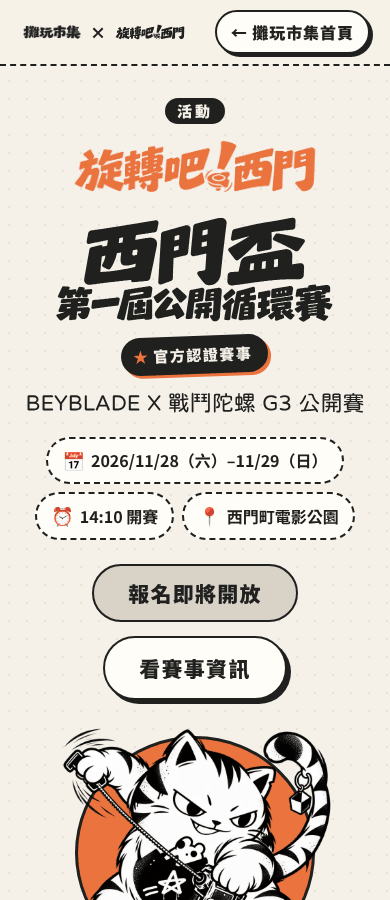
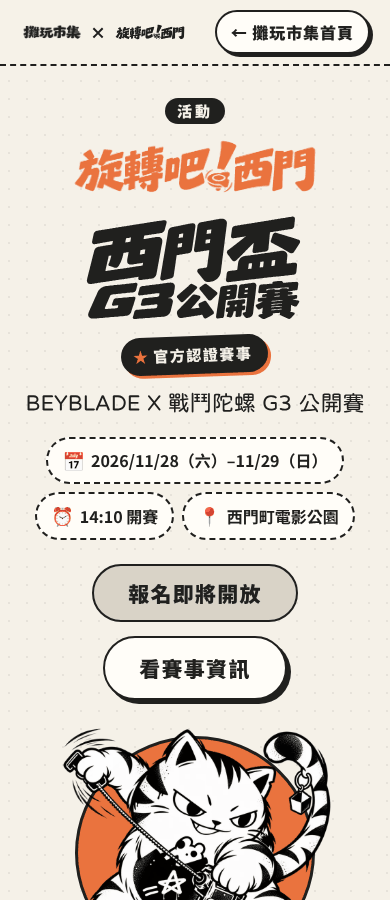
西門盃改用 G3／G2 新字卡，全站移除「第一屆公開循環賽」
- /cup/ 主視覺換 ximen-cup-g3-black，首頁橫幅換 ximen-cup-g3-white
- 每月賽事 G3／G2 卡片改放白色 G3／G2 字卡
- title、meta、og、twitter 文字改「西門盃 G3 公開賽」，og-cup.png 重做
- 更新 1440／390 截圖；舊 ximen-cup-* 檔案保留，CNAME 未動

Claude-Session: https://claude.ai/code/session_012dQHuckgmktwtxDEBvdD1o

Changed region(s): [[0.1538, 0.2178, 0.8615, 0.3733], [0.2154, 0.9956, 0.2462, 1.0]]

diff --git a/cup/index.html b/cup/index.html
@@ -4,8 +4,8 @@
   <meta charset="utf-8">
   <meta name="viewport" content="width=device-width, initial-scale=1">
 
-  <title>旋轉吧！西門｜西門盃 第一屆公開循環賽 BEYBLADE X 戰鬥陀螺 G3 公開賽 11/28（六）–11/29（日）｜攤玩市集</title>
-  <meta name="description" content="旋轉吧！西門｜西門盃 第一屆公開循環賽（G3 官方認證賽事），2026/11/28（六）–11/29（日）在西門町電影公園舉行。週六通常組（6–12 歲）、週日公開組（12 歲以上），每天 64 人，報名費每人 NT$200，觀賽免費。報名即將開放。每個週末舉辦 G3、每月一個週末舉辦 G2 官方認證賽事。">
+  <title>旋轉吧！西門｜西門盃 G3 公開賽 BEYBLADE X 戰鬥陀螺 11/28（六）–11/29（日）｜攤玩市集</title>
+  <meta name="description" content="旋轉吧！西門｜西門盃 G3 公開賽（G3 官方認證賽事），2026/11/28（六）–11/29（日）在西門町電影公園舉行。週六通常組（6–12 歲）、週日公開組（12 歲以上），每天 64 人，報名費每人 NT$200，觀賽免費。報名即將開放。每個週末舉辦 G3、每月一個週末舉辦 G2 官方認證賽事。">
   <meta name="theme-color" content="#F5F1E8">
   <link rel="canonical" href="https://tanwanmarket.com/cup/">
 
@@ -13,15 +13,15 @@
   <meta property="og:type" content="website">
   <meta property="og:locale" content="zh_TW">
   <meta property="og:site_name" content="攤玩市集">
-  <meta property="og:title" content="旋轉吧！西門｜西門盃 第一屆公開循環賽 BEYBLADE X 戰鬥陀螺 G3 公開賽">
+  <meta property="og:title" content="旋轉吧！西門｜西門盃 G3 公開賽 BEYBLADE X 戰鬥陀螺">
   <meta property="og:description" content="2026/11/28（六）–11/29（日）西門町電影公園｜G3 官方認證賽事，週六通常組、週日公開組各 64 人，觀賽免費。報名即將開放。">
   <meta property="og:url" content="https://tanwanmarket.com/cup/">
   <meta property="og:image" content="https://tanwanmarket.com/assets/cup/og-cup.png">
   <meta property="og:image:width" content="1200">
   <meta property="og:image:height" content="630">
-  <meta property="og:image:alt" content="旋轉吧！西門字標、西門盃 第一屆公開循環賽字卡與發射戰鬥陀螺的攤玩貓">
+  <meta property="og:image:alt" content="旋轉吧！西門字標、西門盃 G3 公開賽字卡與發射戰鬥陀螺的攤玩貓">
   <meta name="twitter:card" content="summary_large_image">
-  <meta name="twitter:title" content="旋轉吧！西門｜西門盃 第一屆公開循環賽 BEYBLADE X 戰鬥陀螺 G3 公開賽">
+  <meta name="twitter:title" content="旋轉吧！西門｜西門盃 G3 公開賽 BEYBLADE X 戰鬥陀螺">
   <meta name="twitter:description" content="2026/11/28（六）–11/29（日）西門町電影公園｜G3 官方認證賽事，報名即將開放。">
   <meta name="twitter:image" content="https://tanwanmarket.com/assets/cup/og-cup.png">
 
@@ -72,8 +72,8 @@
           </div>
           <h1 class="cup-title">
             <picture>
-              <source srcset="../assets/cup/ximen-cup-black.svg" type="image/svg+xml">
-              <img src="../assets/cup/ximen-cup-black.webp" alt="西門盃 第一屆公開循環賽" width="1200" height="400" fetchpriority="high">
+              <source srcset="../assets/cup/ximen-cup-g3-black.svg" type="image/svg+xml">
+              <img src="../assets/cup/ximen-cup-g3-black.webp" alt="西門盃 G3 公開賽" width="1200" height="400" fetchpriority="high">
             </picture>
           </h1>
           <p class="cup-badge">官方認證賽事</p>
@@ -243,8 +243,8 @@
           <article class="cup-card cup-monthly-main">
             <p>「旋轉吧！西門」系列賽事每個月都在西門町電影公園舉辦，<span class="nobr">比賽日在週六、週日</span>（攤玩市集每週五、六、日營業）。</p>
             <ul class="cup-monthly-types">
-              <li><span class="cup-monthly-name">G3 公開賽</span><span class="cup-monthly-count">每個週末 <strong>2</strong> 場</span><span class="cup-monthly-detail">週六通常組、週日公開組，<span class="nobr">各 64 人，NT$200</span></span></li>
-              <li><span class="cup-monthly-name">G2 地區賽</span><span class="cup-monthly-count">每月 <strong>1</strong> 個週末</span><span class="cup-monthly-detail">週六通常組、週日公開組，<span class="nobr">各 128 人，NT$300</span></span></li>
+              <li><picture class="cup-monthly-mark"><source srcset="../assets/cup/ximen-cup-g3-white.svg" type="image/svg+xml"><img src="../assets/cup/ximen-cup-g3-white.webp" alt="西門盃 G3 公開賽" width="1200" height="400" loading="lazy"></picture><span class="cup-monthly-count">每個週末 <strong>2</strong> 場</span><span class="cup-monthly-detail">週六通常組、週日公開組，<span class="nobr">各 64 人，NT$200</span></span></li>
+              <li><picture class="cup-monthly-mark"><source srcset="../assets/cup/ximen-cup-g2-white.svg" type="image/svg+xml"><img src="../assets/cup/ximen-cup-g2-white.webp" alt="西門盃 G2 地區賽" width="1200" height="400" loading="lazy"></picture><span class="cup-monthly-count">每月 <strong>1</strong> 個週末</span><span class="cup-monthly-detail">週六通常組、週日公開組，<span class="nobr">各 128 人，NT$300</span></span></li>
             </ul>
             <p class="cup-monthly-note">通常組<span class="nobr">限 6–12 歲</span>、公開組<span class="nobr">限 12 歲以上</span>（G3、G2 相同）。G2 週末不辦 G3。以上皆為官方認證賽事。每月賽程確認後，我們會一次公布並開放當月所有場次報名，可以一次報名多場，方便玩家提前安排。如遇場地活動需要調整，將提前公告延期日期。</p>
           </article>

diff --git a/index.html b/index.html
@@ -91,7 +91,7 @@
     </section>
 
     <!-- ===================== 西門盃橫幅（連到 /cup/） ===================== -->
-    <section class="cup-promo" aria-label="西門盃 第一屆公開循環賽">
+    <section class="cup-promo" aria-label="西門盃 G3 公開賽">
       <div class="container">
         <a class="cup-promo-card" href="cup/">
           <div class="cup-promo-text">
@@ -99,8 +99,8 @@
             <p class="cup-promo-title">
               <img class="cup-promo-event" src="assets/cup/spin-ximen-white.webp" alt="旋轉吧！西門" width="1200" height="346" loading="lazy">
               <picture>
-                <source srcset="assets/cup/ximen-cup-white.svg" type="image/svg+xml">
-                <img src="assets/cup/ximen-cup-white.webp" alt="西門盃 第一屆公開循環賽" width="1200" height="400" loading="lazy">
+                <source srcset="assets/cup/ximen-cup-g3-white.svg" type="image/svg+xml">
+                <img src="assets/cup/ximen-cup-g3-white.webp" alt="西門盃 G3 公開賽" width="1200" height="400" loading="lazy">
               </picture>
             </p>
             <div class="cup-promo-info">

diff --git a/cup/cup.css b/cup/cup.css
@@ -209,7 +209,8 @@
   box-shadow: 5px 5px 0 var(--orange);
   text-align: center;
 }
-.cup-monthly-name { font-family: var(--font-fun); font-size: 1.25rem; }
+.cup-monthly-mark { display: block; width: min(100%, 260px); margin: -4px 0 2px; }
+.cup-monthly-mark img { width: 100%; }
 .cup-monthly-count { font-weight: 700; }
 .cup-monthly-count strong {
   font-weight: 900;
